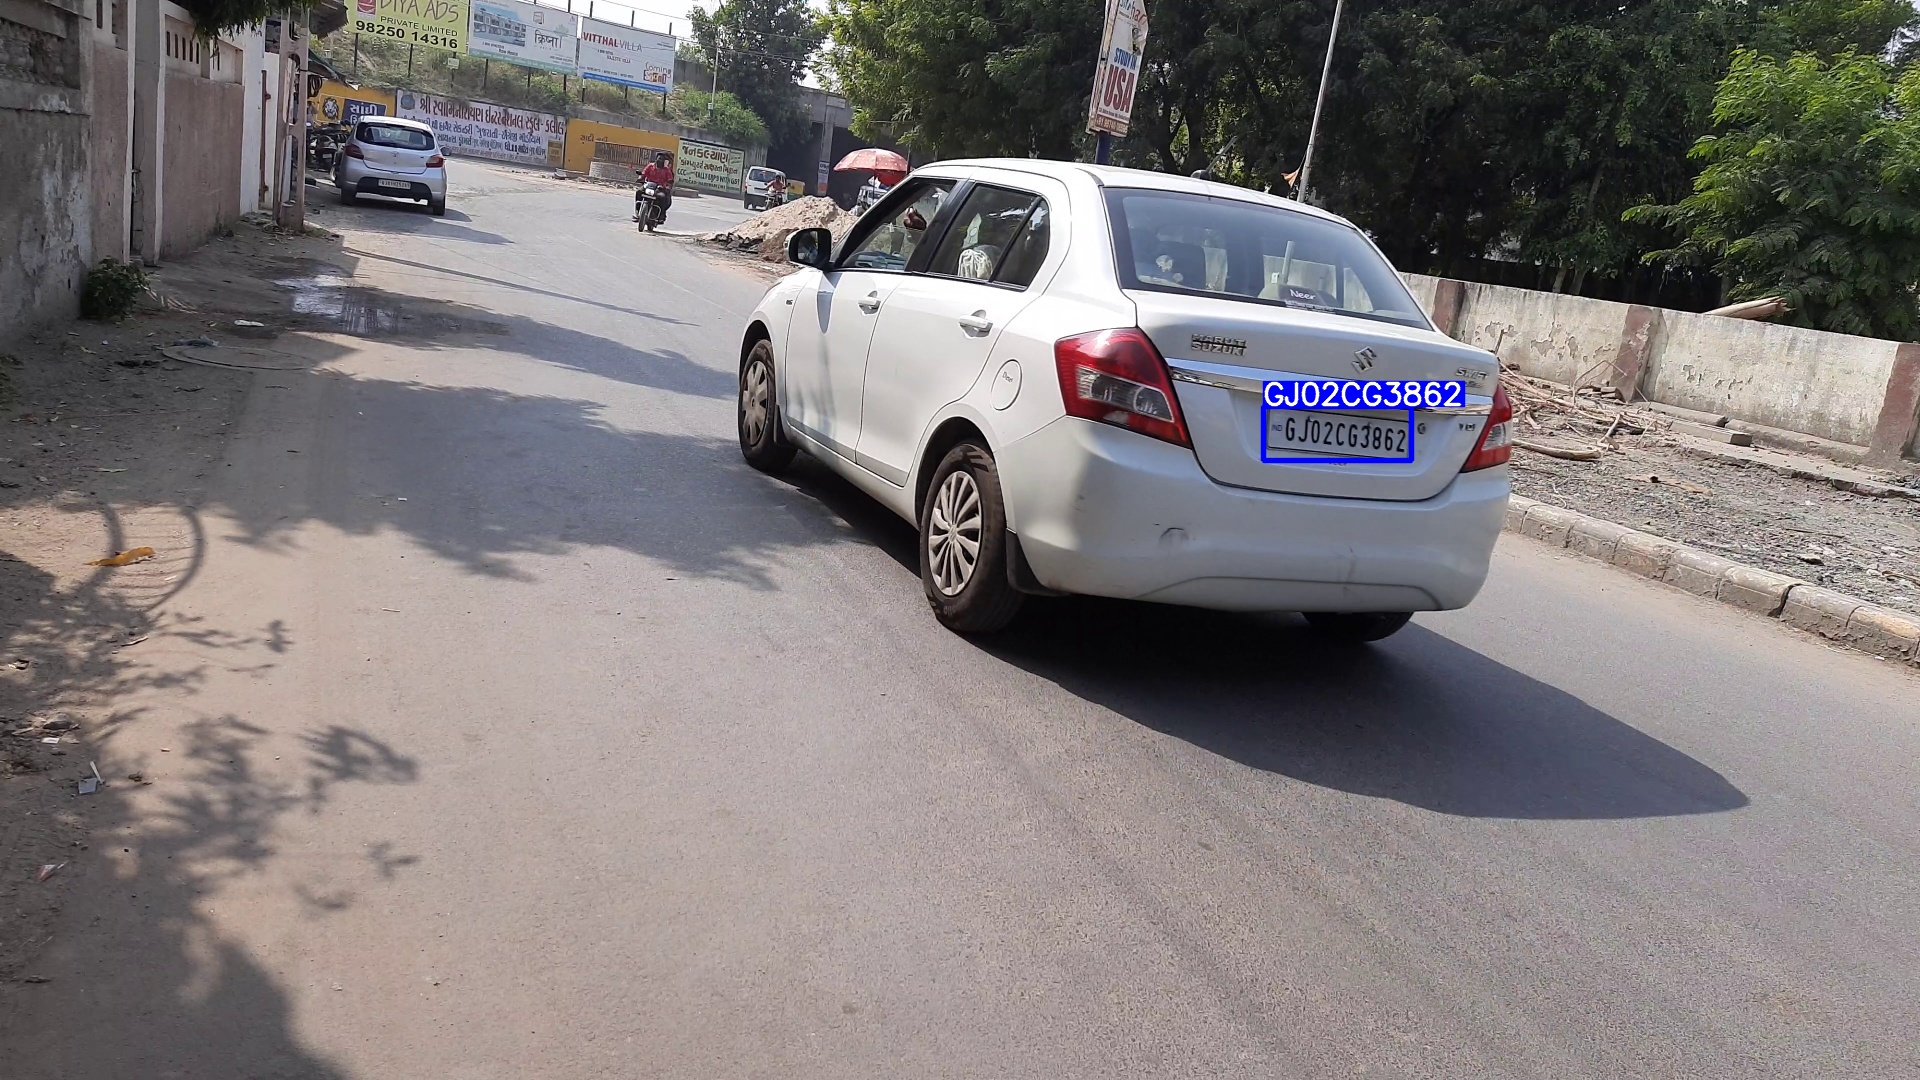
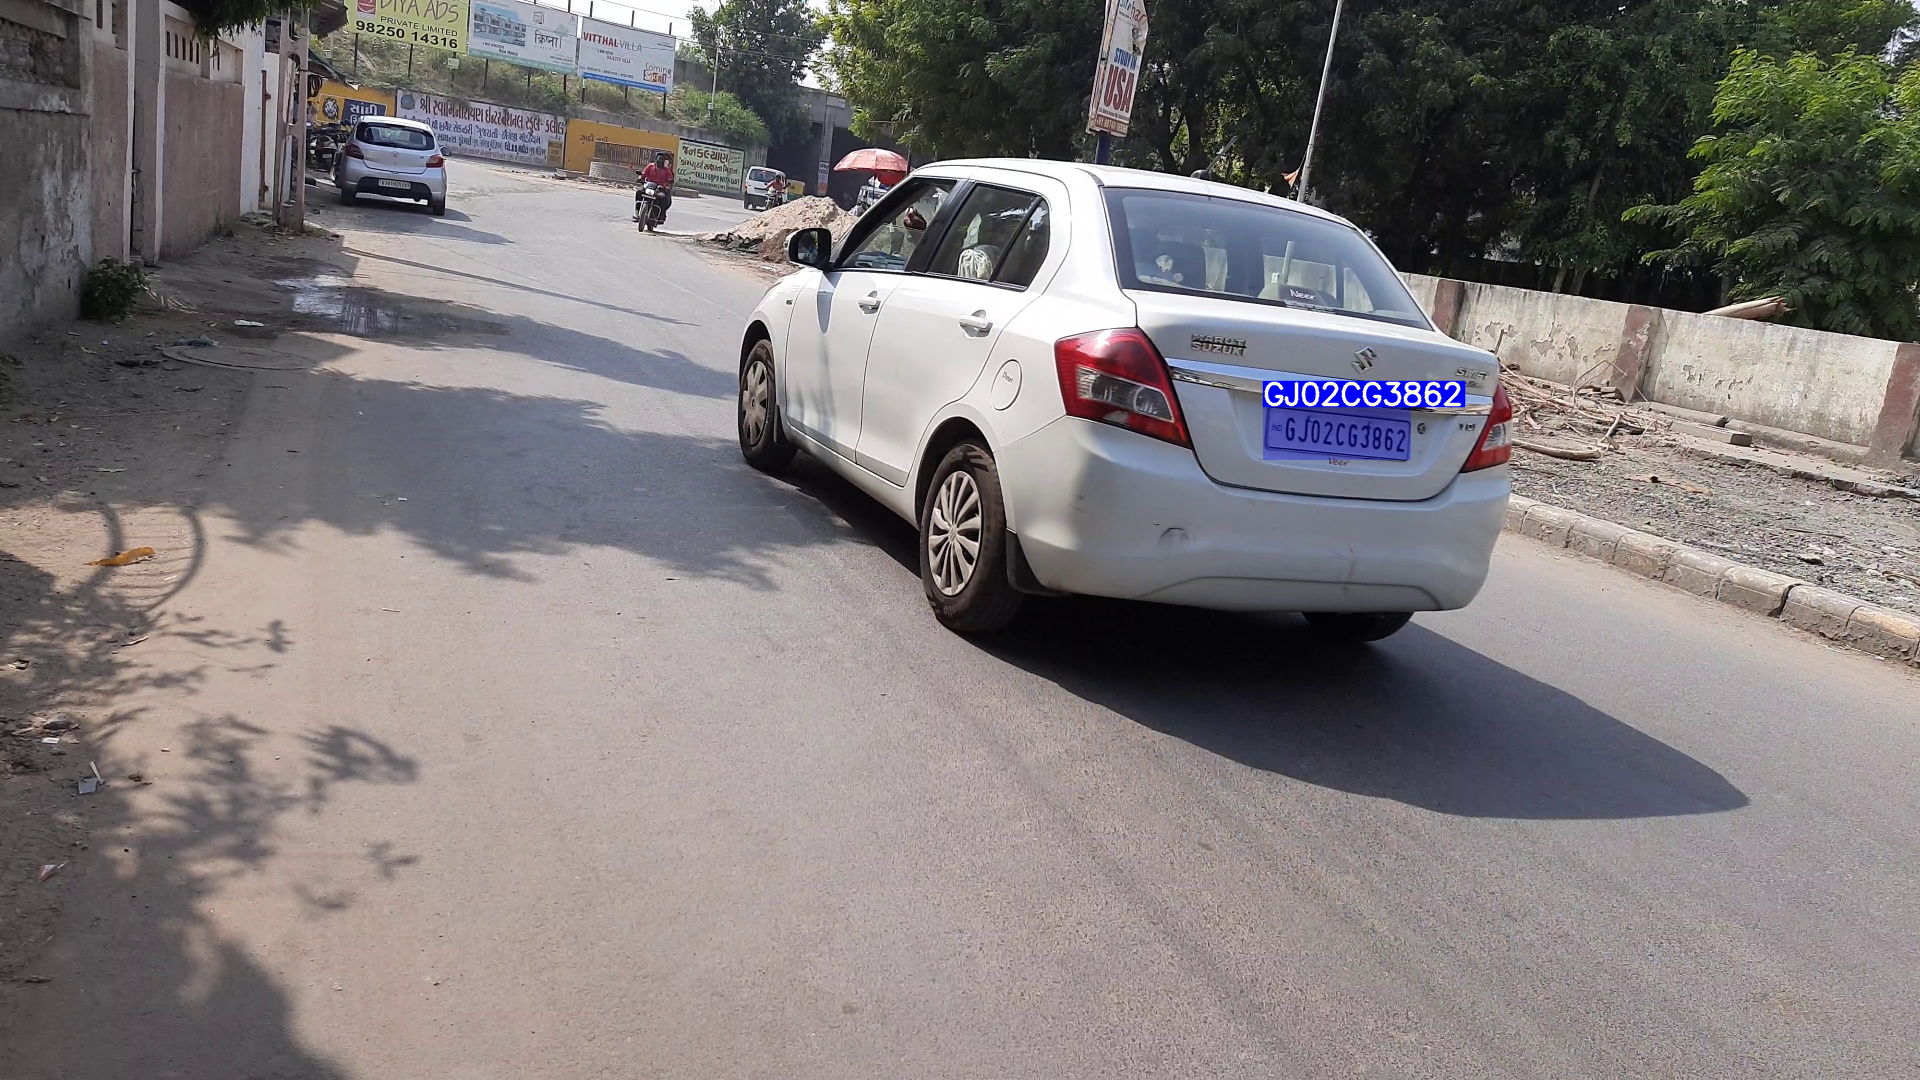
minor changes

Changed region(s): [[0.6562, 0.3361, 0.7812, 0.4278]]

diff --git a/infer_semanticseg.py b/infer_semanticseg.py
@@ -98,7 +98,10 @@ def plot_single_frame_from_out_dict(im, out_dict,line_thickness=3,color = (255,0
             line_thickness or round(0.002 * (im.shape[0] + im.shape[1]) / 2) + 1
         )  # line/font thickness
         c1, c2 = (int(box[0]), int(box[1])), (int(box[2]), int(box[3]))
-        cv2.rectangle(im, c1, c2, color, thickness=tl, lineType=cv2.LINE_AA)
+        mask = im.copy()
+        mask[int(box[1]):int(box[3]),int(box[0]):int(box[2])] = color
+        im = cv2.addWeighted(im, 0.7, mask, 0.3, 0)
+        # cv2.rectangle(im, c1, c2, color, thickness=tl, lineType=cv2.LINE_AA)
         if label:
             tf = max(tl - 1, 1)  # font thickness
             t_size = cv2.getTextSize(label, 0, fontScale=tl / 3, thickness=tf)[0]

diff --git a/README.md b/README.md
@@ -31,11 +31,10 @@
   </ol>
 </details>
 
-![-----------------------------------------------------](https://raw.githubusercontent.com/andreasbm/readme/master/assets/lines/rainbow.png)
 
   
 <!-- ABOUT THE PROJECT -->
-<h2 id="about-the-project"> :pencil: About The Project</h2>
+<h2 id="about-the-project">  About The Project</h2>
 
 <p align="justify"> 
 
@@ -45,11 +44,9 @@ Indian Number (Licence) Plate Detection is a problem which hasn’t been explore
 
 </p>
 
-![-----------------------------------------------------](https://raw.githubusercontent.com/andreasbm/readme/master/assets/lines/rainbow.png)
-
 
 <!-- DATASET -->
-<h2 id="dataset"> :floppy_disk: Dataset</h2>
+<h2 id="dataset"> Dataset</h2>
 <p> 
 <hr />
 
@@ -59,11 +56,8 @@ In this paper we introduce an Indian Number (licence) plate dataset with 16,192 
 <hr />
 </p>
 
-![-----------------------------------------------------](https://raw.githubusercontent.com/andreasbm/readme/master/assets/lines/rainbow.png)
-
-<!-- :paw_prints:-->
 <!-- FOLDER STRUCTURE -->
-<h2 id="folder-structure"> :cactus: Folder Structure</h2>
+<h2 id="folder-structure"> Folder Structure</h2>
 
     code
     
@@ -89,10 +83,9 @@ In this paper we introduce an Indian Number (licence) plate dataset with 16,192 
     ├── README.md
     
 
-![-----------------------------------------------------](https://raw.githubusercontent.com/andreasbm/readme/master/assets/lines/rainbow.png)
 
 <!-- Metrics -->
-<h2 id="metrics"> :dart: Metrics</h2>
+<h2 id="metrics">Metrics</h2>
 <p align="justify"> 
 
 <h3>Detection</h3>
@@ -113,11 +106,9 @@ In this paper we introduce an Indian Number (licence) plate dataset with 16,192 
 
 </p>
 
-![-----------------------------------------------------](https://raw.githubusercontent.com/andreasbm/readme/master/assets/lines/rainbow.png)
-
 
 <!-- Benchmark -->
-<h2 id="benchmark"> :diamond_shape_with_a_dot_inside: Benchmark</h2>
+<h2 id="benchmark">Benchmark</h2>
 
 <p align="justify"> 
 
@@ -136,10 +127,8 @@ In the tables below we present the result of model developed on the test split, 
 
 </p>
 
-![-----------------------------------------------------](https://raw.githubusercontent.com/andreasbm/readme/master/assets/lines/rainbow.png)
-
 <!-- Training Instructions -->
-<h2 id="training-instructions"> :scroll: Training Instructions</h2>
+<h2 id="training-instructions">Training Instructions</h2>
 
 <hr />
 We have created a baseline model with 2 stage approach, the first stage being the detection of number plates in an image, followed by a second stage to recognize the text in a cropped image of the plate. For the detection stage, we tested two separate models, one using object detection which has been well explored for the task of number plate detection in the past, the second using a semantic segmentation based model for number plate detection.
@@ -182,10 +171,8 @@ python src/License_Plate_Recognition/train_LPRNet.py --train_img_dirs --test_img
 
 ```
 
-![-----------------------------------------------------](https://raw.githubusercontent.com/andreasbm/readme/master/assets/lines/rainbow.png)
-
 <!-- Demo -->
-<h2 id="demo"> :mag: Demo</h2>
+<h2 id="demo">Demo</h2>
 
 <h3>original image</h3>
 
@@ -211,15 +198,11 @@ python infer_semanticseg.py --source demo_images/20201031_133155_3220.jpg
 <img src="demo_images/20201031_133155_3220_semantic.jpg" alt="original image" width="70%" height="70%">
 
 
-![-----------------------------------------------------](https://raw.githubusercontent.com/andreasbm/readme/master/assets/lines/rainbow.png)
-
 <!-- Acknowledgement -->
-<h2 id="acknowledgement"> :books: Acknowledgement</h2>
+<h2 id="acknowledgement">Acknowledgement</h2>
 
 <hr />
 If you have any problems about <paper name>, please contact <>.
 
 Please cite the paper 《》, if you benefit from this dataset.
 <hr />
-
-![-----------------------------------------------------](https://raw.githubusercontent.com/andreasbm/readme/master/assets/lines/rainbow.png)
